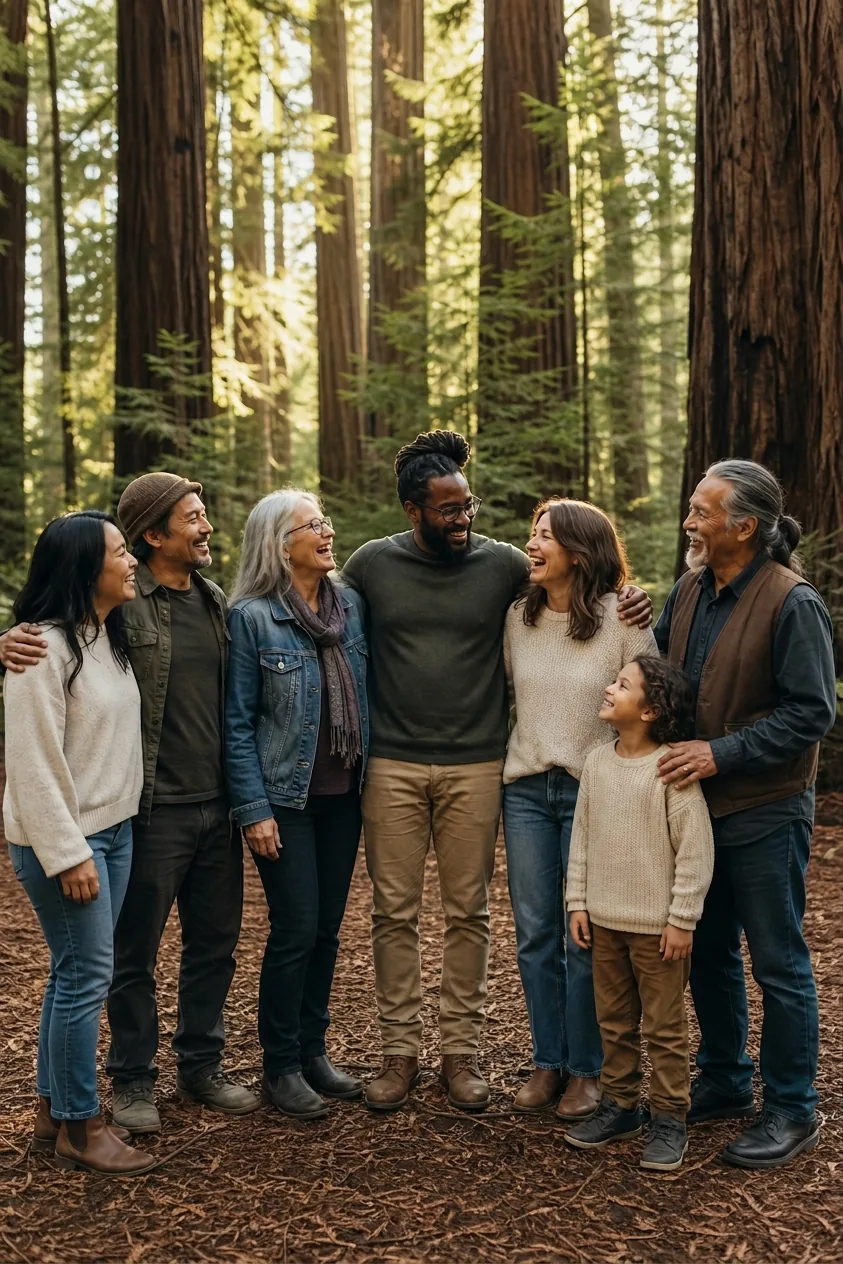
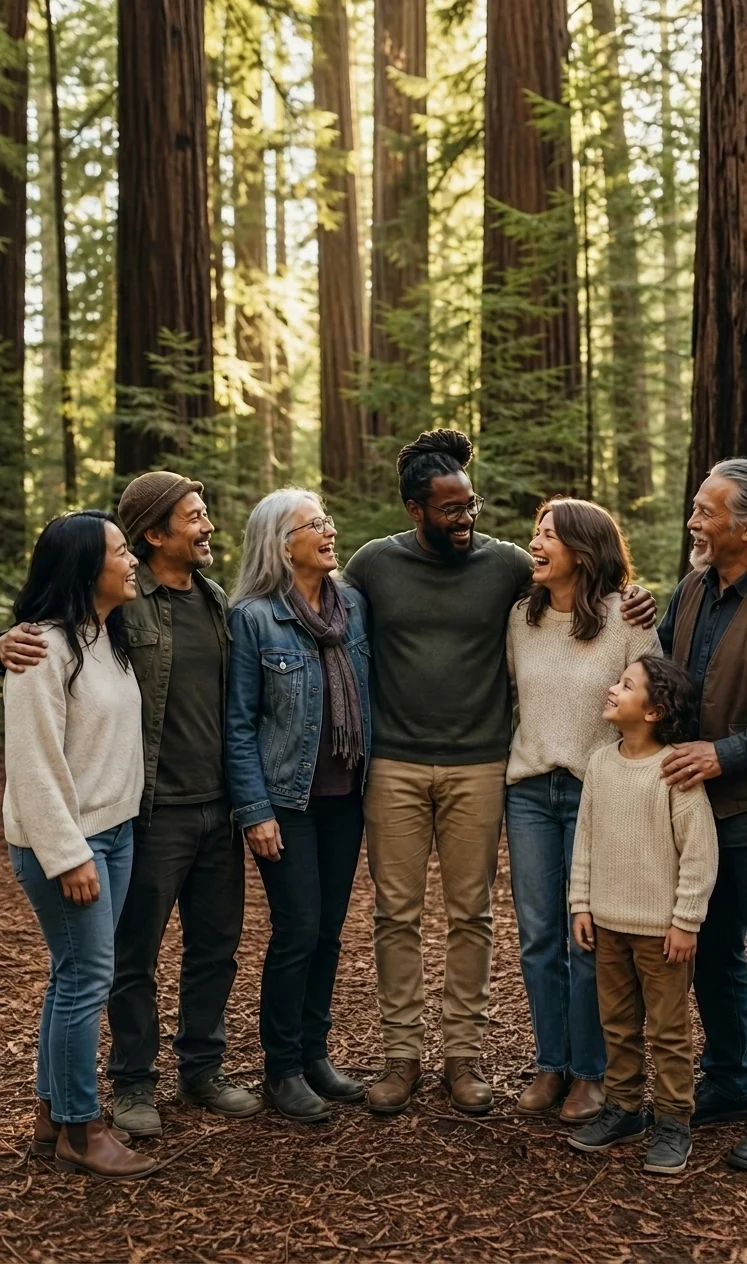
Publish staging refinements to production: brand-canonical color palette (Deep Redwood Green #3B5E4A, Dawn Gold #D4A853, etc.), re-cropped hero (group centered, no cut-off), desktop hero fits viewport, mobile hero stacking fix, FAQ 'make a referral' wording

diff --git a/assets/css/styles.css b/assets/css/styles.css
@@ -1,11 +1,11 @@
 :root{
-  --ink:#173f35;--ink-deep:#0f3029;--cream:#f7f4ec;--paper:#fffdf8;--sage:#dfe8dc;--sage-2:#edf2e9;--gold:#b99856;--peach:#f5e4d8;--muted:#5e6f68;--line:#d9ded7;--shadow:0 14px 45px rgba(20,55,46,.09);
+  --ink:#3B5E4A;--ink-deep:#2C4A3A;--cream:#f7f4ec;--paper:#fffdf8;--sage:#8FA88A;--sage-2:#dfe8dc;--gold:#D4A853;--peach:#f5e4d8;--muted:#5C4033;--line:#D8DED9;--link:#7A9BAE;--shadow:0 14px 45px rgba(59,94,74,.09);
   --serif: Georgia, 'Times New Roman', serif;--sans: Inter, ui-sans-serif, system-ui, -apple-system, BlinkMacSystemFont, 'Segoe UI', sans-serif;
   --radius:18px;--max:1180px;
 }
 *{box-sizing:border-box}html{scroll-behavior:smooth}body{margin:0;background:var(--paper);color:var(--ink-deep);font:16px/1.62 var(--sans);-webkit-font-smoothing:antialiased}img{max-width:100%;display:block}a{color:inherit}p{margin:0 0 1.1rem}h1,h2,h3{font-family:var(--serif);font-weight:500;line-height:1.08;letter-spacing:-.025em;margin:0 0 1rem}h1{font-size:clamp(2.8rem,6vw,5.8rem)}h2{font-size:clamp(2rem,4vw,3.55rem)}h3{font-size:clamp(1.25rem,2vw,1.6rem)}.shell{width:min(calc(100% - 40px),var(--max));margin:auto}.narrow{width:min(calc(100% - 40px),800px);margin:auto}.eyebrow{font-size:.77rem;text-transform:uppercase;letter-spacing:.15em;font-weight:800;color:#466b5c;margin-bottom:.8rem}.lede{font-size:clamp(1.1rem,2vw,1.35rem);color:#3f574f;max-width:760px}.muted{color:var(--muted)}.sr-only{position:absolute;width:1px;height:1px;padding:0;margin:-1px;overflow:hidden;clip:rect(0,0,0,0);white-space:nowrap;border:0}.skip-link{position:absolute;left:1rem;top:-100px;background:#fff;padding:.7rem 1rem;z-index:1000}.skip-link:focus{top:1rem}.button{display:inline-flex;align-items:center;justify-content:center;gap:.4rem;text-decoration:none;background:var(--ink);color:white;border:1px solid var(--ink);padding:.9rem 1.25rem;border-radius:5px;font-weight:750;transition:.2s}.button:hover{background:var(--ink-deep);transform:translateY(-1px)}.button-outline{background:transparent;color:var(--ink)}.button-outline:hover{background:var(--sage-2)}.button-small{padding:.62rem .95rem;font-size:.92rem}.text-link{font-weight:800;text-decoration:none}.text-link:hover{text-decoration:underline}.actions{display:flex;gap:.75rem;flex-wrap:wrap;margin-top:1.6rem}.site-header{height:82px;display:flex;align-items:center;background:rgba(255,253,248,.97);border-bottom:1px solid rgba(23,63,53,.08);position:sticky;top:0;z-index:30;backdrop-filter:blur(10px)}.nav-shell{display:flex;align-items:center;justify-content:space-between;gap:2rem}.brand{display:flex;flex-direction:row-reverse;align-items:center;gap:10px;text-decoration:none;color:var(--ink-deep)}.brand img{width:56px;height:56px;flex-shrink:0}.brand-text{font-family:var(--serif);font-weight:700;font-size:26px;color:#3B5E4A;letter-spacing:-.02em}.primary-nav{display:flex;align-items:center;gap:1.65rem}.primary-nav>a:not(.button){font-size:.92rem;text-decoration:none;font-weight:650}.primary-nav>a[aria-current="page"]:not(.button){text-decoration:underline;text-decoration-thickness:2px;text-underline-offset:7px}.menu-toggle{display:none;background:none;border:0;padding:.5rem}.menu-toggle span:not(.sr-only){display:block;width:26px;height:2px;background:var(--ink);margin:5px}
-.hero{min-height:670px;display:grid;grid-template-columns:1.08fr .92fr;background:var(--cream);overflow:hidden}.hero-copy{padding:clamp(4rem,8vw,8rem) max(30px,calc((100vw - var(--max))/2));padding-right:clamp(2rem,5vw,5rem);display:flex;flex-direction:column;justify-content:center;position:relative}.hero-copy:after{content:"";position:absolute;right:-80px;top:0;width:170px;height:100%;background:var(--cream);border-radius:50%;z-index:2}.hero-copy>*{position:relative;z-index:3}.hero-copy h1{max-width:700px}.hero-copy .lede{max-width:610px}.hero-art{background:url('../img/forest-horizon.svg') center/cover no-repeat;min-height:670px}.positioning{padding:4.3rem 20px;text-align:center;background:var(--paper);border-bottom:1px solid var(--line)}.positioning h2{font-size:clamp(2rem,4vw,3.25rem);max-width:820px;margin:auto}.star{font-size:1.5rem;color:var(--gold);display:block;margin:1.2rem auto 0}.section{padding:clamp(4.5rem,8vw,7.5rem) 0}.section-soft{background:linear-gradient(130deg,var(--cream),var(--sage-2))}.section-dark{background:var(--ink);color:white}.section-head{text-align:center;max-width:760px;margin:0 auto 3.3rem}.section-head p{color:var(--muted)}.section-dark .section-head p{color:#d4e0da}.service-triad{display:grid;grid-template-columns:repeat(3,1fr);border-top:1px solid var(--line);border-bottom:1px solid var(--line)}.triad-item{padding:2.4rem 2.2rem;text-align:center}.triad-item+.triad-item{border-left:1px solid var(--line)}.round-icon{width:54px;height:54px;border:1px solid #8ca293;border-radius:50%;display:grid;place-items:center;margin:0 auto 1.2rem;font-size:1.35rem}.center-action{text-align:center;margin-top:2.4rem}.audience-grid{display:grid;grid-template-columns:.85fr 1.15fr;gap:5rem;align-items:center}.audience-grid h2{font-size:clamp(2.7rem,5vw,4.7rem)}.domain-grid{display:grid;grid-template-columns:repeat(3,1fr);gap:1.3rem}.domain{min-height:125px;text-align:center;display:flex;flex-direction:column;justify-content:center;border:1px solid #cbd5cb;background:rgba(255,255,255,.38);border-radius:14px;padding:1rem;font-weight:750}.domain span{font-size:1.45rem;margin-bottom:.35rem}.page-hero{padding:7rem 0 4.5rem;background:linear-gradient(135deg,var(--cream),var(--sage-2));text-align:center}.page-hero h1{font-size:clamp(2.8rem,5vw,4.8rem)}.page-hero .lede{margin:auto}.content-block{padding:5rem 0}.intro-split{display:grid;grid-template-columns:.8fr 1.2fr;gap:4.5rem;align-items:start}.intro-split h2{font-size:clamp(2rem,4vw,3.25rem)}.service-index{display:grid;grid-template-columns:repeat(2,1fr);gap:0 4rem;border-top:1px solid var(--line)}.service-row{display:grid;grid-template-columns:54px 1fr;gap:1rem;padding:1.7rem 0;border-bottom:1px solid var(--line)}.service-row .mini-icon{width:44px;height:44px;border:1px solid #8da292;border-radius:50%;display:grid;place-items:center}.service-row h3{font-family:var(--sans);font-size:1.02rem;font-weight:800;letter-spacing:0;margin:.1rem 0 .25rem}.service-row p{font-size:.95rem;color:var(--muted);margin:0}.steps{display:grid;grid-template-columns:repeat(3,1fr);gap:2rem}.step{position:relative;padding:1.5rem}.step:not(:last-child):after{content:"→";position:absolute;right:-1.2rem;top:50%;font-size:2rem;color:#718a7c}.step-num{font:2rem/1 var(--serif);color:#638071}.values-grid{display:grid;grid-template-columns:repeat(3,1fr);gap:1rem}.value-card{border:1px solid var(--line);background:var(--paper);padding:1.7rem;min-height:250px}.value-card .step-num{font-size:1.25rem}.quote-block{font:clamp(1.4rem,2.4vw,2rem)/1.4 var(--serif);border-left:3px solid var(--gold);padding-left:1.5rem;color:#264d40}.support-layout{display:grid;grid-template-columns:.8fr 1.2fr;gap:3rem;align-items:start}.contact-option{display:flex;gap:1rem;margin:1.2rem 0}.contact-option .mini-icon{font-size:1.3rem}.crisis{background:#fff4ed;border:1px solid #e5b99e;border-radius:10px;padding:1rem 1.2rem;margin-top:2rem}.form-card{background:var(--paper);box-shadow:var(--shadow);border:1px solid #e0e4df;border-radius:14px;padding:clamp(1.3rem,3vw,2.3rem)}.field-grid{display:grid;grid-template-columns:1fr 1fr;gap:1rem}.field{margin-bottom:1rem}.field label,.field legend{display:block;font-size:.86rem;font-weight:800;margin-bottom:.35rem}.field input,.field select,.field textarea{width:100%;border:1px solid #cbd3cd;border-radius:5px;padding:.78rem .85rem;background:white;color:#183d34;font:inherit}.field textarea{min-height:130px;resize:vertical}.choice-list{display:grid;gap:.45rem}.choice-list label{font-weight:500;display:flex;gap:.55rem;align-items:flex-start}.form-status{padding:.8rem 1rem;border-radius:6px;margin-bottom:1rem}.form-status-success{background:#e7f4e9}.form-status-error{background:#fff0ee}.form-status-info{background:#edf2e9}.privacy-note{font-size:.82rem;color:var(--muted);margin-top:.8rem}.partner-benefits{display:grid;grid-template-columns:repeat(4,1fr);gap:1rem}.benefit{padding:1.6rem;border-top:2px solid #87a091;background:rgba(255,255,255,.45)}.partner-types{display:grid;grid-template-columns:repeat(2,1fr);gap:1.1rem}.partner-type{border:1px solid var(--line);padding:1.8rem}.accordion{border-top:1px solid var(--line)}.accordion-item{border-bottom:1px solid var(--line)}.accordion button{width:100%;background:none;border:0;color:var(--ink-deep);font:750 1rem/1.4 var(--sans);display:flex;justify-content:space-between;text-align:left;padding:1.3rem .2rem;cursor:pointer}.accordion button:after{content:"+";font-size:1.35rem;font-weight:400}.accordion button[aria-expanded="true"]:after{content:"−"}.accordion-panel{padding:0 2rem 1.3rem .2rem;color:var(--muted)}.contact-cards{display:grid;grid-template-columns:repeat(3,1fr);gap:1rem}.contact-card{padding:1.8rem;background:var(--sage-2);border-radius:14px}.empty-state{text-align:center;padding:5rem 2rem;background:linear-gradient(135deg,var(--cream),var(--sage-2));border:1px solid var(--line);border-radius:18px}.site-footer{background:var(--ink-deep);color:#eff5f1;padding:4rem 0 1.4rem}.footer-grid{display:grid;grid-template-columns:1.4fr repeat(4,1fr);gap:2.2rem}.site-footer h2{font:800 .78rem/1.2 var(--sans);text-transform:uppercase;letter-spacing:.09em;margin-bottom:1rem}.site-footer a{display:block;text-decoration:none;margin:.36rem 0;color:#f3f5f1}.site-footer p{color:#d5dfda;font-size:.92rem}.brand-footer{font-size:1.2rem}.footer-bottom{border-top:1px solid rgba(255,255,255,.15);margin-top:3rem;padding-top:1.2rem;display:flex;justify-content:space-between;color:#bdd0c7;font-size:.78rem}.footer-bottom a{display:inline}.legal{padding:5rem 0}.legal h2{font-size:1.7rem;margin-top:2.2rem}.legal h3{font-size:1.25rem;margin-top:1.6rem}.legal p{margin:0 0 1rem}.legal ul{margin:0 0 1.1rem;padding-left:1.3rem}.legal li{margin-bottom:.4rem}.legal a{font-weight:800}.kicker-line{width:50px;height:2px;background:var(--gold);margin:1rem 0 1.5rem}
-@media(max-width:900px){.primary-nav{display:none;position:absolute;left:20px;right:20px;top:74px;background:var(--paper);padding:1rem;box-shadow:var(--shadow);border:1px solid var(--line);border-radius:10px;flex-direction:column;align-items:stretch}.primary-nav.is-open{display:flex}.menu-toggle{display:block}.hero{grid-template-columns:1fr}.hero-copy{padding:5rem max(25px,calc((100vw - var(--max))/2));}.hero-copy:after{display:none}.hero-art{min-height:360px}.audience-grid,.intro-split,.support-layout{grid-template-columns:1fr;gap:2.5rem}.partner-benefits{grid-template-columns:repeat(2,1fr)}.footer-grid{grid-template-columns:repeat(2,1fr)}.footer-brand{grid-column:1/-1}}
+.hero{height:calc(100vh - 82px);min-height:460px;display:grid;grid-template-columns:1.08fr .92fr;grid-template-rows:minmax(0,1fr);background:var(--cream);overflow:hidden}.hero-copy{padding:clamp(2.5rem,5vw,5rem) max(30px,calc((100vw - var(--max))/2));padding-right:clamp(2rem,5vw,5rem);display:flex;flex-direction:column;justify-content:center;position:relative}.hero-copy:after{content:"";position:absolute;right:-30px;top:0;width:60px;height:100%;background:var(--cream);border-radius:50%;z-index:2}.hero-copy>*{position:relative;z-index:3}.hero-copy h1{max-width:700px}.hero-copy .lede{max-width:610px}.hero-art{background:url('../img/forest-horizon.svg') center/cover no-repeat;min-height:670px}.positioning{padding:4.3rem 20px;text-align:center;background:var(--paper);border-bottom:1px solid var(--line)}.positioning h2{font-size:clamp(2rem,4vw,3.25rem);max-width:820px;margin:auto}.star{font-size:1.5rem;color:var(--gold);display:block;margin:1.2rem auto 0}.section{padding:clamp(4.5rem,8vw,7.5rem) 0}.section-soft{background:linear-gradient(130deg,var(--cream),var(--sage-2))}.section-dark{background:var(--ink);color:white}.section-head{text-align:center;max-width:760px;margin:0 auto 3.3rem}.section-head p{color:var(--muted)}.section-dark .section-head p{color:#d4e0da}.service-triad{display:grid;grid-template-columns:repeat(3,1fr);border-top:1px solid var(--line);border-bottom:1px solid var(--line)}.triad-item{padding:2.4rem 2.2rem;text-align:center}.triad-item+.triad-item{border-left:1px solid var(--line)}.round-icon{width:54px;height:54px;border:1px solid #8ca293;border-radius:50%;display:grid;place-items:center;margin:0 auto 1.2rem;font-size:1.35rem}.center-action{text-align:center;margin-top:2.4rem}.audience-grid{display:grid;grid-template-columns:.85fr 1.15fr;gap:5rem;align-items:center}.audience-grid h2{font-size:clamp(2.7rem,5vw,4.7rem)}.domain-grid{display:grid;grid-template-columns:repeat(3,1fr);gap:1.3rem}.domain{min-height:125px;text-align:center;display:flex;flex-direction:column;justify-content:center;border:1px solid #cbd5cb;background:rgba(255,255,255,.38);border-radius:14px;padding:1rem;font-weight:750}.domain span{font-size:1.45rem;margin-bottom:.35rem}.page-hero{padding:7rem 0 4.5rem;background:linear-gradient(135deg,var(--cream),var(--sage-2));text-align:center}.page-hero h1{font-size:clamp(2.8rem,5vw,4.8rem)}.page-hero .lede{margin:auto}.content-block{padding:5rem 0}.intro-split{display:grid;grid-template-columns:.8fr 1.2fr;gap:4.5rem;align-items:start}.intro-split h2{font-size:clamp(2rem,4vw,3.25rem)}.service-index{display:grid;grid-template-columns:repeat(2,1fr);gap:0 4rem;border-top:1px solid var(--line)}.service-row{display:grid;grid-template-columns:54px 1fr;gap:1rem;padding:1.7rem 0;border-bottom:1px solid var(--line)}.service-row .mini-icon{width:44px;height:44px;border:1px solid #8da292;border-radius:50%;display:grid;place-items:center}.service-row h3{font-family:var(--sans);font-size:1.02rem;font-weight:800;letter-spacing:0;margin:.1rem 0 .25rem}.service-row p{font-size:.95rem;color:var(--muted);margin:0}.steps{display:grid;grid-template-columns:repeat(3,1fr);gap:2rem}.step{position:relative;padding:1.5rem}.step:not(:last-child):after{content:"→";position:absolute;right:-1.2rem;top:50%;font-size:2rem;color:#718a7c}.step-num{font:2rem/1 var(--serif);color:#638071}.values-grid{display:grid;grid-template-columns:repeat(3,1fr);gap:1rem}.value-card{border:1px solid var(--line);background:var(--paper);padding:1.7rem;min-height:250px}.value-card .step-num{font-size:1.25rem}.quote-block{font:clamp(1.4rem,2.4vw,2rem)/1.4 var(--serif);border-left:3px solid var(--gold);padding-left:1.5rem;color:#264d40}.support-layout{display:grid;grid-template-columns:.8fr 1.2fr;gap:3rem;align-items:start}.contact-option{display:flex;gap:1rem;margin:1.2rem 0}.contact-option .mini-icon{font-size:1.3rem}.crisis{background:#fff4ed;border:1px solid #e5b99e;border-radius:10px;padding:1rem 1.2rem;margin-top:2rem}.form-card{background:var(--paper);box-shadow:var(--shadow);border:1px solid #e0e4df;border-radius:14px;padding:clamp(1.3rem,3vw,2.3rem)}.field-grid{display:grid;grid-template-columns:1fr 1fr;gap:1rem}.field{margin-bottom:1rem}.field label,.field legend{display:block;font-size:.86rem;font-weight:800;margin-bottom:.35rem}.field input,.field select,.field textarea{width:100%;border:1px solid #cbd3cd;border-radius:5px;padding:.78rem .85rem;background:white;color:#183d34;font:inherit}.field textarea{min-height:130px;resize:vertical}.choice-list{display:grid;gap:.45rem}.choice-list label{font-weight:500;display:flex;gap:.55rem;align-items:flex-start}.form-status{padding:.8rem 1rem;border-radius:6px;margin-bottom:1rem}.form-status-success{background:#e7f4e9}.form-status-error{background:#fff0ee}.form-status-info{background:#edf2e9}.privacy-note{font-size:.82rem;color:var(--muted);margin-top:.8rem}.partner-benefits{display:grid;grid-template-columns:repeat(4,1fr);gap:1rem}.benefit{padding:1.6rem;border-top:2px solid #87a091;background:rgba(255,255,255,.45)}.partner-types{display:grid;grid-template-columns:repeat(2,1fr);gap:1.1rem}.partner-type{border:1px solid var(--line);padding:1.8rem}.accordion{border-top:1px solid var(--line)}.accordion-item{border-bottom:1px solid var(--line)}.accordion button{width:100%;background:none;border:0;color:var(--ink-deep);font:750 1rem/1.4 var(--sans);display:flex;justify-content:space-between;text-align:left;padding:1.3rem .2rem;cursor:pointer}.accordion button:after{content:"+";font-size:1.35rem;font-weight:400}.accordion button[aria-expanded="true"]:after{content:"−"}.accordion-panel{padding:0 2rem 1.3rem .2rem;color:var(--muted)}.contact-cards{display:grid;grid-template-columns:repeat(3,1fr);gap:1rem}.contact-card{padding:1.8rem;background:var(--sage-2);border-radius:14px}.empty-state{text-align:center;padding:5rem 2rem;background:linear-gradient(135deg,var(--cream),var(--sage-2));border:1px solid var(--line);border-radius:18px}.site-footer{background:var(--ink-deep);color:#eff5f1;padding:4rem 0 1.4rem}.footer-grid{display:grid;grid-template-columns:1.4fr repeat(4,1fr);gap:2.2rem}.site-footer h2{font:800 .78rem/1.2 var(--sans);text-transform:uppercase;letter-spacing:.09em;margin-bottom:1rem}.site-footer a{display:block;text-decoration:none;margin:.36rem 0;color:#f3f5f1}.site-footer p{color:#d5dfda;font-size:.92rem}.brand-footer{font-size:1.2rem}.footer-bottom{border-top:1px solid rgba(255,255,255,.15);margin-top:3rem;padding-top:1.2rem;display:flex;justify-content:space-between;color:#bdd0c7;font-size:.78rem}.footer-bottom a{display:inline}.legal{padding:5rem 0}.legal h2{font-size:1.7rem;margin-top:2.2rem}.legal h3{font-size:1.25rem;margin-top:1.6rem}.legal p{margin:0 0 1rem}.legal ul{margin:0 0 1.1rem;padding-left:1.3rem}.legal li{margin-bottom:.4rem}.legal a{font-weight:800}.kicker-line{width:50px;height:2px;background:var(--gold);margin:1rem 0 1.5rem}
+@media(max-width:900px){.primary-nav{display:none;position:absolute;left:20px;right:20px;top:74px;background:var(--paper);padding:1rem;box-shadow:var(--shadow);border:1px solid var(--line);border-radius:10px;flex-direction:column;align-items:stretch}.primary-nav.is-open{display:flex}.menu-toggle{display:block}.hero{grid-template-columns:1fr;height:auto;grid-template-rows:auto}.hero-copy{padding:5rem max(25px,calc((100vw - var(--max))/2));}.hero-copy:after{display:none}.hero-photo,.hero-photo img{min-height:430px}.hero-photo img{height:100%;object-fit:cover}.hero-art{min-height:360px}.audience-grid,.intro-split,.support-layout{grid-template-columns:1fr;gap:2.5rem}.partner-benefits{grid-template-columns:repeat(2,1fr)}.footer-grid{grid-template-columns:repeat(2,1fr)}.footer-brand{grid-column:1/-1}}
 @media(max-width:650px){.shell,.narrow{width:min(calc(100% - 28px),var(--max))}.site-header{height:72px}.hero{min-height:auto}.hero-copy{padding:4.2rem 22px}.hero-art{min-height:290px}.section{padding:4rem 0}.service-triad,.values-grid,.service-index,.steps,.domain-grid,.partner-types,.contact-cards,.field-grid{grid-template-columns:1fr}.triad-item+.triad-item{border-left:0;border-top:1px solid var(--line)}.step:not(:last-child):after{display:none}.partner-benefits{grid-template-columns:1fr}.audience-grid h2{font-size:2.8rem}.footer-grid{grid-template-columns:1fr}.footer-brand{grid-column:auto}.footer-bottom{flex-direction:column;gap:.6rem}.page-hero{padding:5rem 0 3.5rem}}
 @media(prefers-reduced-motion:reduce){html{scroll-behavior:auto}.button{transition:none}}
 
@@ -61,10 +61,10 @@
 .page-hero{text-align:left}
 .page-hero .lede{margin-left:0;margin-right:0}
 
-.hero-photo{min-height:670px;position:relative;overflow:hidden;background:#dfe8dc}
-.hero-photo img{width:100%;height:100%;min-height:670px;object-fit:cover;object-position:55% center}
+.hero-photo{position:relative;overflow:hidden;background:#dfe8dc}
+.hero-photo img{width:100%;height:100%;object-fit:cover;object-position:52% 35%}
 .hero-photo:after{content:"";position:absolute;inset:0;background:linear-gradient(90deg,rgba(247,244,236,.15),rgba(15,48,41,.08))}
-.hero-photo .photo-wash{position:absolute;left:-2px;top:-6%;height:112%;width:100px;background:var(--cream);border-radius:0 52% 52% 0;z-index:2;opacity:.98}
+.hero-photo .photo-wash{position:absolute;left:-2px;top:-6%;height:112%;width:36px;background:var(--cream);border-radius:0 52% 52% 0;z-index:2;opacity:.98}
 
 .audience-photo-grid{display:grid;grid-template-columns:.92fr 1.08fr;gap:4.5rem;align-items:center}
 .audience-photo{position:relative;min-height:600px;border-radius:22px;overflow:hidden;box-shadow:var(--shadow)}

diff --git a/index.html b/index.html
@@ -1,5 +1,5 @@
 <!doctype html><html lang="en"><head><meta charset="utf-8"><meta name="viewport" content="width=device-width,initial-scale=1"><title>Redwood Horizon | Whole-Person Support in Northern California</title><link rel="icon" type="image/svg+xml" href="assets/img/redwood-mark.svg"><meta name="description" content="Whole-person, community-based wraparound services for people facing barriers to stability in Northern California."><link rel="canonical" href="https://redwoodhorizon.org/index.html"><meta property="og:type" content="website"><meta property="og:site_name" content="Redwood Horizon"><meta property="og:title" content="Redwood Horizon | Whole-Person Support in Northern California"><meta property="og:description" content="Whole-person, community-based wraparound services for people facing barriers to stability in Northern California."><meta property="og:url" content="https://redwoodhorizon.org/index.html"><meta property="og:image" content="https://redwoodhorizon.org/assets/img/redwood-mark.svg"><meta name="twitter:card" content="summary_large_image"><script type="application/ld+json">{"@context":"https://schema.org","@id":"https://redwoodhorizon.org/#organization","@type":"Organization","name":"Redwood Horizon","legalName":"Redwood Horizon","url":"https://redwoodhorizon.org/","logo":"https://redwoodhorizon.org/assets/img/redwood-mark.svg","email":"contact@redwoodhorizon.org","description":"Redwood Horizon is a California nonprofit providing whole-person, community-based services across Northern California.","areaServed":"Northern California","sameAs":[]}</script><script type="application/ld+json">{"@context":"https://schema.org","@id":"https://redwoodhorizon.org/#website","@type":"WebSite","name":"Redwood Horizon","alternateName":"redwoodhorizon.org","url":"https://redwoodhorizon.org/"}</script><link rel="stylesheet" href="assets/css/styles.css"><script src="assets/js/config.js" defer></script><script src="assets/js/site.js" defer></script></head><body><div data-site-header></div><main id="main">
-<section class="hero"><div class="hero-copy"><p class="eyebrow">Redwood Horizon · Northern California</p><h1>Grounded in community.<br>Built around people.</h1><p class="lede">Redwood Horizon is a California nonprofit providing whole-person, community-based services across Northern California.</p><div class="actions"><a class="button" href="get-support.html">Get Support</a><a class="button button-outline" href="services.html">Explore Our Services</a></div></div><div class="hero-photo"><img src="assets/img/hero-people.webp" width="843" height="1264" fetchpriority="high" alt="A warm, diverse group of people laughing together in a redwood forest clearing, one hand on a neighbor's shoulder"><span class="photo-wash" aria-hidden="true"></span></div></section>
+<section class="hero"><div class="hero-copy"><p class="eyebrow">Redwood Horizon · Northern California</p><h1>Grounded in community.<br>Built around people.</h1><p class="lede">Redwood Horizon is a California nonprofit providing whole-person, community-based services across Northern California.</p><div class="actions"><a class="button" href="get-support.html">Get Support</a><a class="button button-outline" href="services.html">Explore Our Services</a></div></div><div class="hero-photo"><img src="assets/img/hero-people.webp" width="747" height="1264" fetchpriority="high" alt="A warm, diverse group of people, centered together in a redwood forest clearing, laughing in community with one hand on a neighbor's shoulder"><span class="photo-wash" aria-hidden="true"></span></div></section>
 <section class="positioning"><h2>We help people navigate housing, health, and the systems in between.</h2><span class="star" aria-hidden="true">✦</span></section>
 <section class="section"><div class="shell"><div class="section-head section-head-compact"><p class="eyebrow">What We Do</p><h2>Support built around the whole person.</h2><p>We stay with people through complexity and coordinate the pieces that affect stability.</p></div><div class="service-triad"><article class="triad-item"><div class="round-icon"><svg class="icon" aria-hidden="true"><use href="assets/img/icons.svg#icon-whole-person"></use></svg></div><h3>Whole-Person Support</h3><p>Care coordination across health, behavioral health, housing, benefits, employment, and re-entry.</p></article><article class="triad-item"><div class="round-icon"><svg class="icon" aria-hidden="true"><use href="assets/img/icons.svg#icon-community"></use></svg></div><h3>Community-Based Care</h3><p>We meet people through channels already part of their lives and build support around what is easiest to reach.</p></article><article class="triad-item"><div class="round-icon"><svg class="icon" aria-hidden="true"><use href="assets/img/icons.svg#icon-persistent"></use></svg></div><h3>Persistent Engagement</h3><p>We stay with people through complexity, on their timeline. When one door closes, we find another way.</p></article></div><div class="center-action"><a class="text-link" href="services.html">Explore Our Services →</a></div></div></section>
 <section class="section section-soft audience-section"><div class="shell audience-photo-grid"><div class="audience-photo"><img src="assets/img/who-for.webp" width="1400" height="933" loading="lazy" alt="Three adults sharing a warm conversation together"></div><div class="audience-content"><p class="eyebrow">Who We're For</p><h2>Sometimes one thing is getting in the way.<br>Sometimes everything is connected.</h2><p>Redwood Horizon is for people facing barriers to stability who need practical, community-based support to move forward. Whether it is one urgent need or several systems at once, we help figure out a different path.</p><div class="domain-grid domain-grid-compact"><div class="domain"><svg class="icon" aria-hidden="true"><use href="assets/img/icons.svg#icon-housing"></use></svg><span>Housing</span></div><div class="domain"><svg class="icon" aria-hidden="true"><use href="assets/img/icons.svg#icon-health"></use></svg><span>Health</span></div><div class="domain"><svg class="icon" aria-hidden="true"><use href="assets/img/icons.svg#icon-behavioral"></use></svg><span>Behavioral Health</span></div><div class="domain"><svg class="icon" aria-hidden="true"><use href="assets/img/icons.svg#icon-reentry"></use></svg><span>Re-entry</span></div><div class="domain"><svg class="icon" aria-hidden="true"><use href="assets/img/icons.svg#icon-benefits"></use></svg><span>Benefits</span></div><div class="domain"><svg class="icon" aria-hidden="true"><use href="assets/img/icons.svg#icon-employment"></use></svg><span>Employment &amp; Daily Stability</span></div></div><a class="button" href="get-support.html">Get Support</a></div></div></section>

diff --git a/faq.html b/faq.html
@@ -1,6 +1,6 @@
 <!doctype html><html lang="en"><head><meta charset="utf-8"><meta name="viewport" content="width=device-width,initial-scale=1"><title>Common Questions | Redwood Horizon</title><link rel="icon" type="image/svg+xml" href="assets/img/redwood-mark.svg"><meta name="description" content="Answers about Redwood Horizon services, referrals, eligibility, privacy, and service area."><link rel="canonical" href="https://redwoodhorizon.org/faq.html"><meta property="og:type" content="website"><meta property="og:site_name" content="Redwood Horizon"><meta property="og:title" content="Common Questions | Redwood Horizon"><meta property="og:description" content="Answers about Redwood Horizon services, referrals, eligibility, privacy, and service area."><meta property="og:url" content="https://redwoodhorizon.org/faq.html"><meta property="og:image" content="https://redwoodhorizon.org/assets/img/redwood-mark.svg"><meta name="twitter:card" content="summary_large_image"><link rel="stylesheet" href="assets/css/styles.css"><script src="assets/js/config.js" defer></script><script src="assets/js/site.js" defer></script></head><body><div data-site-header></div><main id="main"><section class="page-hero"><div class="shell"><p class="eyebrow">Common Questions</p><h1>Quick answers.<br>No jargon required.</h1><p class="lede">About getting started, referrals, our service area, and how we work alongside you.</p></div></section><section class="section"><div class="narrow"><div class="accordion">
 <div class="accordion-item"><button aria-expanded="false" aria-controls="faq1">Do I need a referral to get support?</button><div class="accordion-panel" id="faq1" hidden>No. You can reach out directly for yourself or someone you care about. Providers and caseworkers can also refer someone through the same form.</div></div>
-<div class="accordion-item"><button aria-expanded="false" aria-controls="faq2">How do I refer a client?</button><div class="accordion-panel" id="faq2" hidden>Use our Get Support form or contact us directly. We accept warm referrals from providers, caseworkers, county staff, health plans, and community organizations.</div></div>
+<div class="accordion-item"><button aria-expanded="false" aria-controls="faq2">How do I make a referral?</button><div class="accordion-panel" id="faq2" hidden>Use our Get Support form or contact us directly. We accept warm referrals from providers, caseworkers, county staff, health plans, and community organizations.</div></div>
 <div class="accordion-item"><button aria-expanded="false" aria-controls="faq3">What areas do you serve?</button><div class="accordion-panel" id="faq3" hidden>We provide support across Northern California.</div></div>
 <div class="accordion-item"><button aria-expanded="false" aria-controls="faq4">Do you replace existing services?</button><div class="accordion-panel" id="faq4" hidden>No. We coordinate with existing providers and complement community capacity. Our goal is to fill gaps, not duplicate them.</div></div>
 <div class="accordion-item"><button aria-expanded="false" aria-controls="faq5">What if I'm not sure I qualify?</button><div class="accordion-panel" id="faq5" hidden>That's okay. Reach out and we can figure out together whether our services might help. You do not need to sort through eligibility alone.</div></div>
